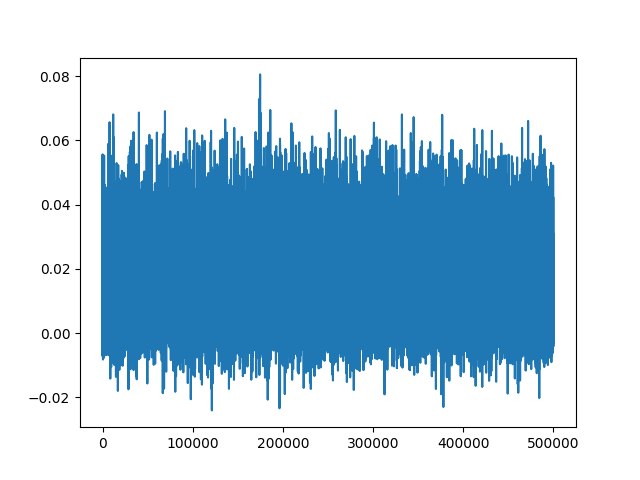
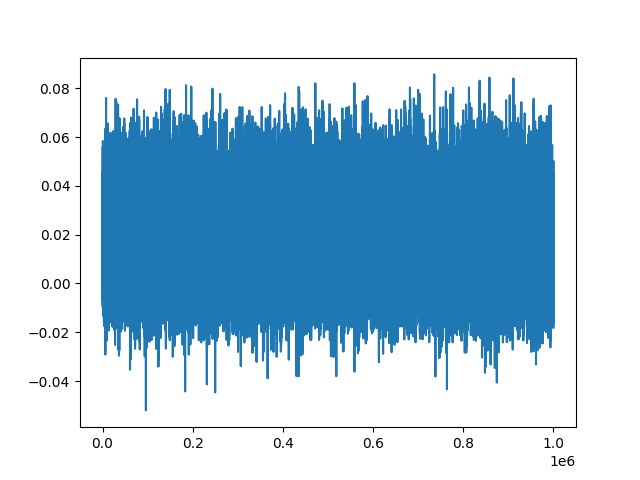
checkpoint

diff --git a/sampler-comparison/sampler_comparison/experiments/quantum_problem/deterministic_staging_jax.py b/sampler-comparison/sampler_comparison/experiments/quantum_problem/deterministic_staging_jax.py
@@ -308,7 +308,7 @@ def do_mc_open_chain(rng, mc_steps, mc_equilibrate, chain_r, pbeads_r, jval_r, r
 
 if __name__ == "__main__":
   # Parameters
-  numsteps = 500000
+  numsteps = 1000000
   equilibration = 0
   num_chains = 10000
   num_unadjusted_steps = 15
@@ -334,11 +334,15 @@ if __name__ == "__main__":
   # Initial chain from uniform(0,1)
   rng = jax.random.PRNGKey(0)
   rng, sub = jax.random.split(rng)
-  r_chain = jax.random.uniform(sub, shape=(P + 1,))
+  # load r_chain 
 
   tic = time.time()
   for time in [1.0]:
   # for time in [3.0]:
+    r_chain = jax.random.uniform(sub, shape=(P + 1,))
+    # r_chains = np.load(f'/global/homes/r/reubenh/sampler-benchmarks/sampler-comparison/samples_np_{time}.npy')
+    # r_chain= jnp.array(r_chains[-1, :])
+    # print(r_chain.shape, "r_chain shape")
     samples_np, std_errs = do_mc_open_chain(rng, numsteps, equilibration, r_chain, P, j_r, m, num_unadjusted_steps, num_chains, t=time)
     print(samples_np.shape)
     # save samples  
